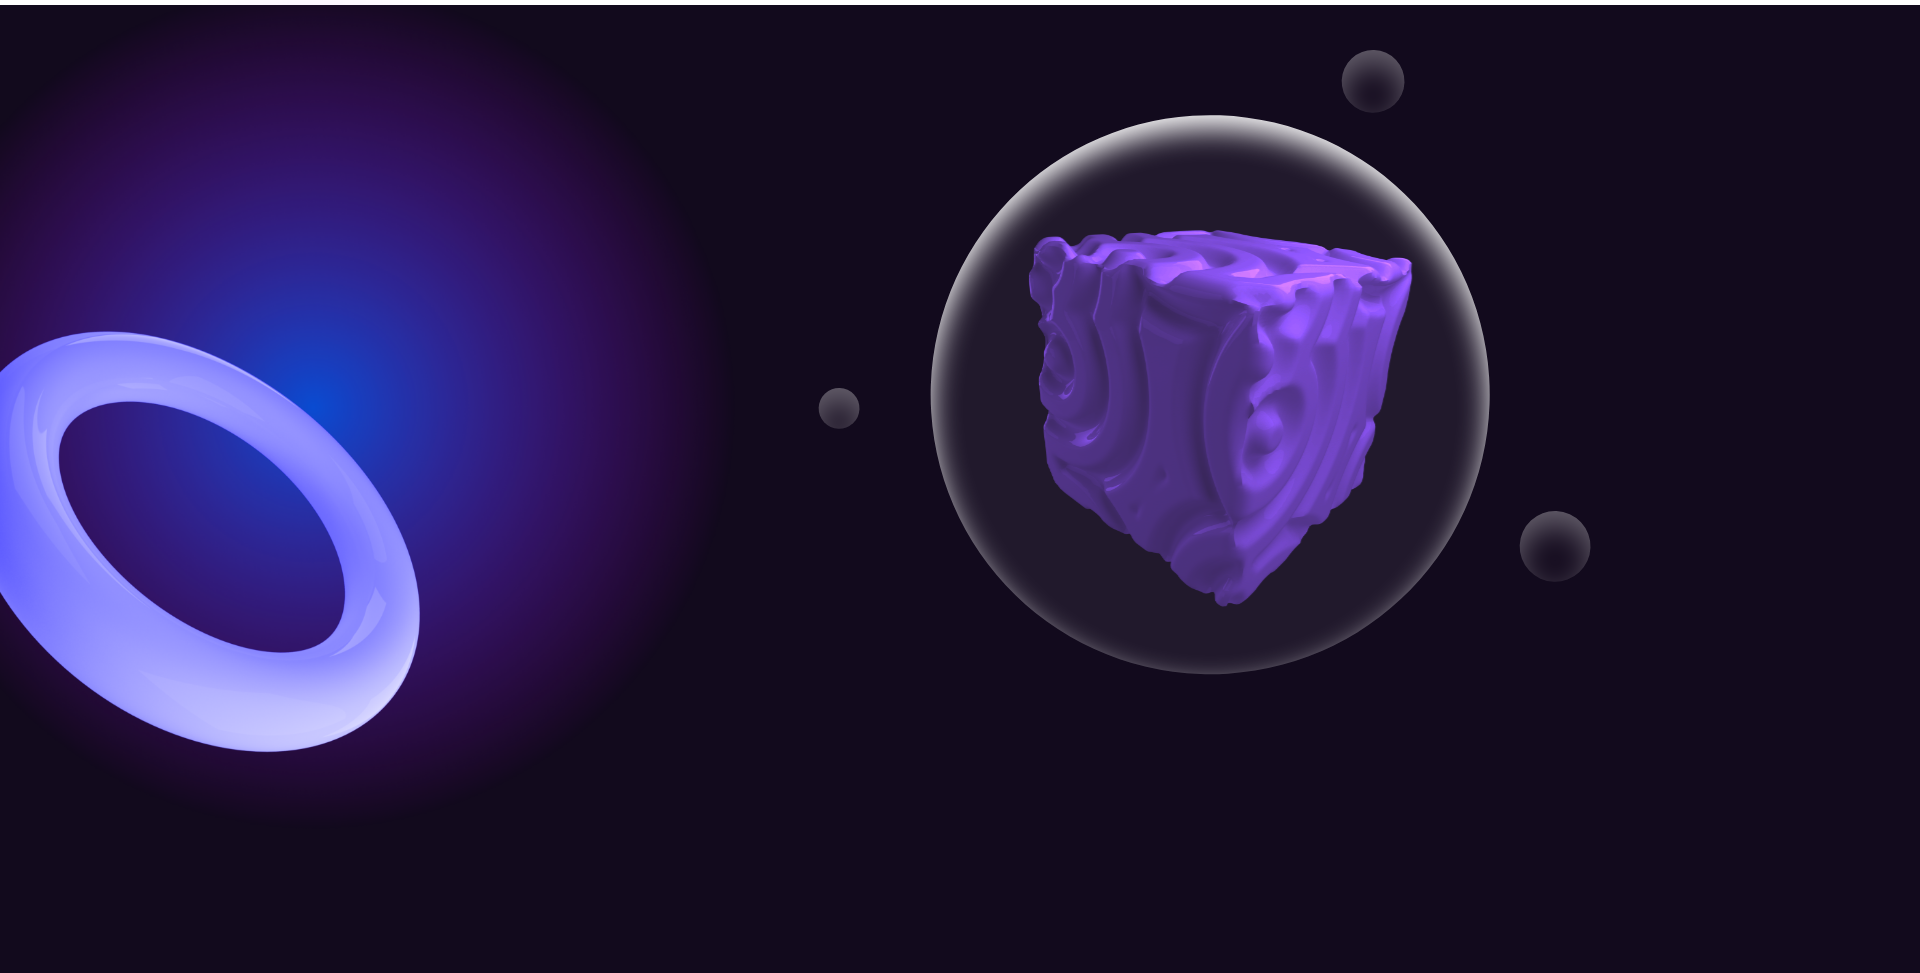
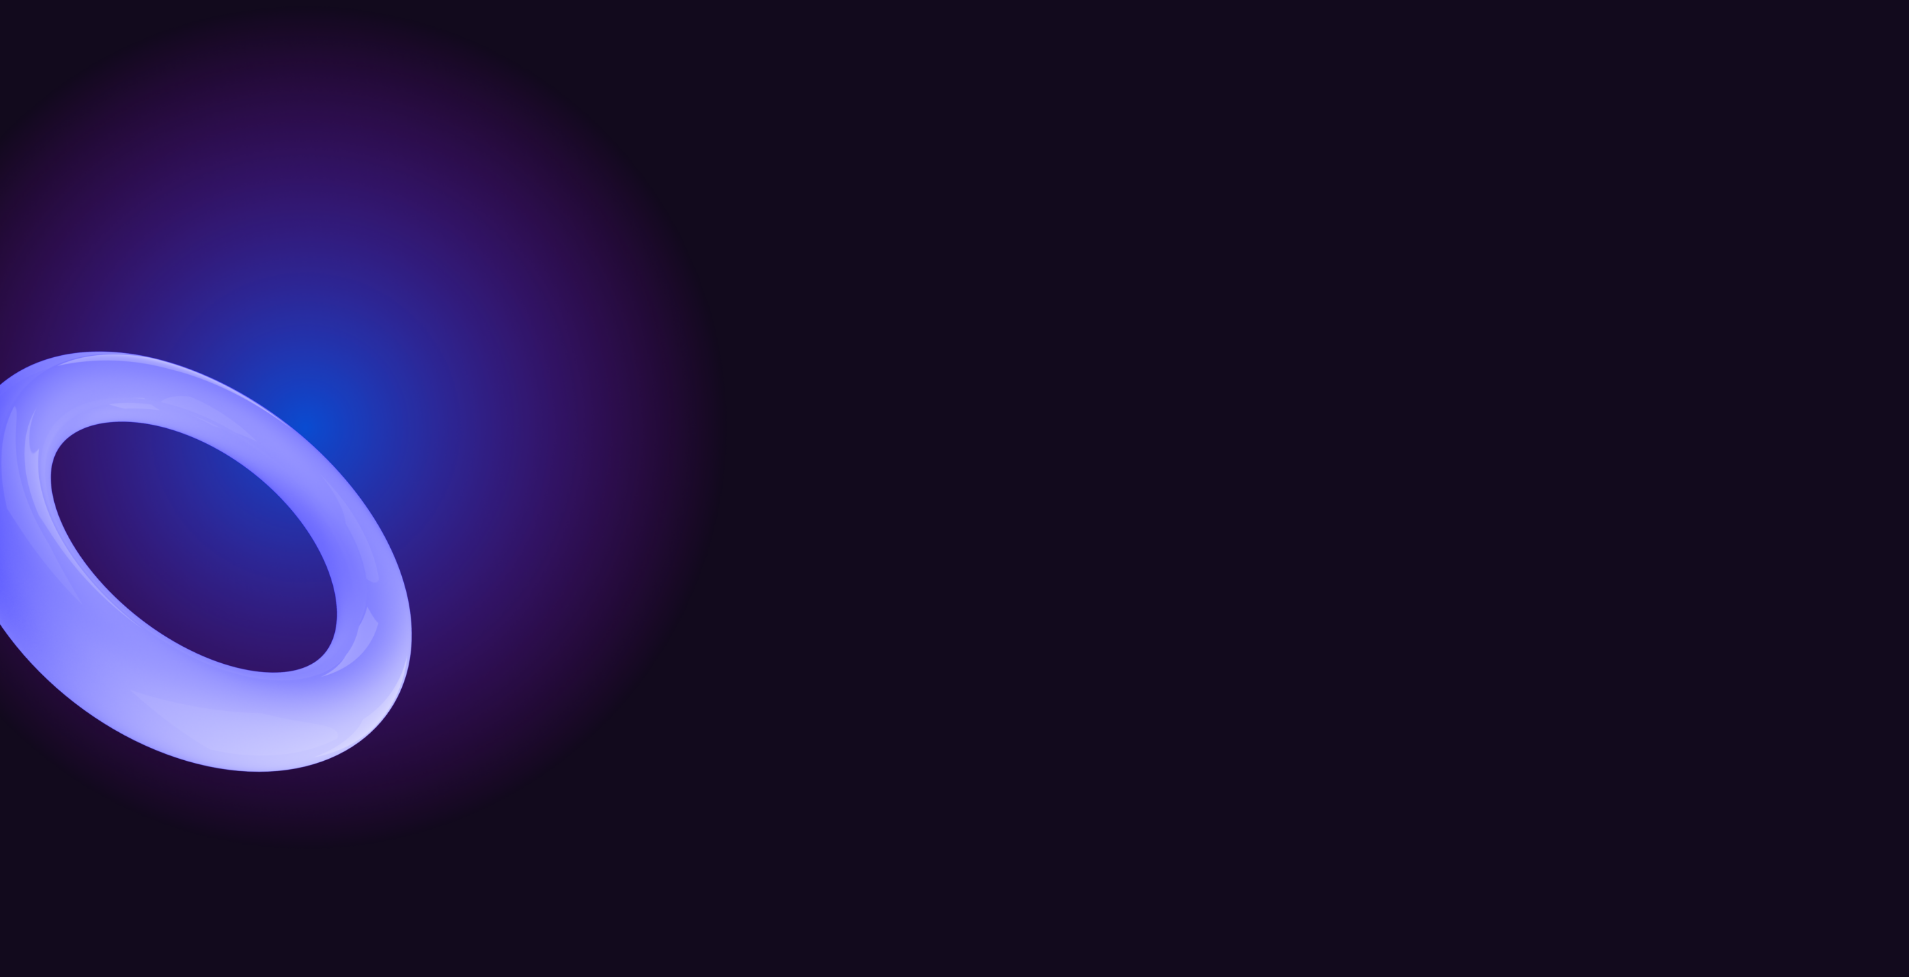
fix/ui changes

diff --git a/src/styles/pages/home/index.tsx b/src/styles/pages/home/index.tsx
@@ -2,10 +2,12 @@ import styled from 'styled-components'
 import apebackground from 'assets/images/moonversewrapper.png'
 import problembackground from 'assets/images/problemsbackground.png'
 import participatebackground from 'assets/images/participateswrapper.png'
+import pointerbackground from 'assets/images/cube.png'
 
 export const Container = styled.div`
   width: 100%;
   background: linear-gradient(180deg, #120a1d 40%, #1f0a3c 50%);
+  scroll-behavior: smooth;
 `
 export const VideoContainer = styled.div`
   position: relative;
@@ -32,6 +34,7 @@ export const Title = styled.div`
   opacity: 1;
   z-index: 2;
   color: #a884f5;
+  text-shadow: #a884f5 5px 0 15px;
 `
 export const Text = styled.div`
   text-align: left;
@@ -60,7 +63,6 @@ export const Logo = styled.div`
     border-radius: 79px;
     opacity: 0.96;
     text-align: left;
-    text-align: left;
     font-size: 15px;
     letter-spacing: 0.5px;
     color: #ffffff;
@@ -75,12 +77,13 @@ export const Logo = styled.div`
 export const Scroll = styled.div`
   position: absolute;
   width: 100%;
-  margin: 0 auto;
+  display: flex;
   justify-content: center;
+  margin: 0 auto;
   bottom: 0;
   z-index: 3;
   .scrollbar {
-    max-width: 100px;
+    width: 100%;
     margin: 0 auto;
     display: flex;
     cursor: pointer;
@@ -99,12 +102,12 @@ export const Player = styled.div`
 
 export const MoonverseInfo = styled.div`
   padding-top: 50px;
-  height: 950px;
+  height: 900px;
   background-image: url(${apebackground});
   background-size: 100%;
   background-repeat: no-repeat;
   @media screen and (max-width: 1440px) {
-    height: 702px;
+    height: 680px;
   }
   @media screen and (max-width: 1000px) {
     height: 450px;
@@ -116,6 +119,7 @@ export const Problems = styled.div`
   height: 832px;
   background-image: url(${problembackground});
   padding-right: 50px;
+  background-repeat: no-repeat;
 `
 
 export const ProblemsTitle = styled.div`
@@ -135,6 +139,7 @@ export const ParticipateContainer = styled.div`
   width: 100%;
   height: 1000px;
   background-image: url(${participatebackground});
+  background-repeat: no-repeat;
 
   .playButton {
     background: #262166 0% 0% no-repeat padding-box;
@@ -154,6 +159,12 @@ export const ParticipateContainer = styled.div`
     color: #ffffff;
     text-transform: capitalize;
     opacity: 1;
+    :hover {
+      background: #262166 0% 0% no-repeat padding-box;
+      box-shadow: inset 0px 17px 6px #00000029, 0px 3px 6px #5a5a5a29;
+      transform: scale(1.1);
+      transition: 0.2s;
+    }
   }
 `
 export const PartcipateText = styled.div`
@@ -179,11 +190,21 @@ export const TextWrapper = styled.div`
 export const Pointers = styled.div`
   display: grid;
   width: 100%;
+  background-image: url(${pointerbackground});
+  background-position-x: center;
+  background-position-y: center;
+  background-size: 795px 795px;
+  background-repeat: no-repeat;
+  @media screen and (max-width: 1450px) {
+    background-size: 655px 655px;
+  }
+  @media screen and (max-width: 1120px) {
+    background-size: 575px 575px;
+  }
 `
 export const Discover = styled.div`
   width: 100%;
   max-width: 303px;
-  height: 80px;
   background: #262166 0% 0% no-repeat padding-box;
   box-shadow: inset 0px 17px 6px #00000029, 0px 3px 6px #00000029;
   border-radius: 12px;
@@ -195,7 +216,6 @@ export const Discover = styled.div`
 export const Model = styled.div`
   width: 100%;
   max-width: 243px;
-  height: 100px;
   background: #262166 0% 0% no-repeat padding-box;
   box-shadow: inset 0px 17px 6px #00000029, 0px 3px 6px #00000029;
   border-radius: 12px;
@@ -209,7 +229,6 @@ export const Monetization = styled.div`
   width: 100%;
   max-width: 243px;
   max-width: 434px;
-  height: 110px;
   background: #262166 0% 0% no-repeat padding-box;
   box-shadow: inset 0px 17px 6px #00000029, 0px 3px 6px #00000029;
   border-radius: 12px;
@@ -257,7 +276,6 @@ export const Utilities = styled.div`
   display: grid;
   justify-content: center;
   grid-gap: 30px;
-  /* grid-template-columns: auto auto auto; */
   grid-template-columns: repeat(auto-fit, minmax(500px, 3fr));
   padding: 0px 70px 70px 70px;
   align-items: center;
@@ -265,8 +283,17 @@ export const Utilities = styled.div`
 `
 export const UtilitiesWrapper = styled.div`
   justify-content: center;
+
   :hover {
-    transform: scale(0.9);
+    transform: scale(0.95);
+    transition: 0.3s;
+    transition-timing-function: ease-out;
+  }
+  :nth-child(2) {
+    @media screen and (max-width: 1440px) {
+      grid-row: 1;
+      grid-column: 1;
+    }
   }
 `
 export const Partners = styled.div`
@@ -299,7 +326,8 @@ export const Heading = styled.div`
   color: #a884f5;
   margin-top: 20px;
   fill-opacity: 100%;
-  max-width: 1210px;
+  max-width: 1240px;
+  text-shadow: #a884f5 5px 0 15px;
 `
 export const RoadmapHeading = styled.div`
   text-align: center;
@@ -312,7 +340,7 @@ export const RoadmapHeading = styled.div`
   color: #a884f5;
   margin-top: 20px;
   margin-bottom: 0px;
-  fill-opacity: 100%;
+  text-shadow: #a884f5 5px 0 15px;
 `
 export const Roadmap = styled.div`
   margin-top: 20px;
@@ -325,7 +353,7 @@ export const RoadmapContent = styled.div``
 export const FooterContainer = styled.div`
   margin: 50px;
   padding: 32px;
-  background: linear-gradient(145deg, #0a0e60 27%, #240e44 50%);
+  background: linear-gradient(145deg, #0a0c34 27%, #240e44 50%);
   box-shadow: 0px 14px 24px rgb(0 0 0 / 65%);
 
   border-radius: 50px;

diff --git a/src/components/home/videoContainer.tsx b/src/components/home/videoContainer.tsx
@@ -14,20 +14,12 @@ const VideoWrapper = () => {
         <Button className="marketplace">Marketplace</Button>
       </Logo>
       <Player>
-        <ReactPlayer
-          playing={true}
-          loop={true}
-          style={{
-            height: '10px !important',
-          }}
-          className="player"
-          url={homevideo}
-          autoPlay={true}
-          controls={false}
-        />
+        <ReactPlayer playing={true} loop={true} className="player" url={homevideo} autoPlay={true} />
       </Player>
       <Scroll>
-        <img src={scroll} className="scrollbar" />
+        <a href="#participate_container">
+          <img src={scroll} className="scrollbar" />
+        </a>
       </Scroll>
     </VideoContainer>
   )

diff --git a/src/components/home/InfoContainer.tsx b/src/components/home/InfoContainer.tsx
@@ -2,7 +2,7 @@ import { MoonverseInfo, Title, Text, TextContainer } from 'styles/pages/home'
 
 const MoonverseInfoWrapper = () => {
   return (
-    <MoonverseInfo>
+    <MoonverseInfo id="moonverse">
       <TextContainer>
         <Title>What is Moonverse</Title>
         <Text>Collectibles Social Metaverse that provides all NFT holders utility in a 3D world</Text>

diff --git a/src/pages/home/index.tsx b/src/pages/home/index.tsx
@@ -19,7 +19,7 @@ const Home = () => {
       <ParticipateWrapper />
       <TokenUtilitiesWrapper />
       <PartnersAndInvestors>
-        <img src={partnerimagecontainer} className="scrollbar" />
+        <img src={partnerimagecontainer} />
         <PartnersContent>
           <PartnerWrapper />
           <InvestorWrapper />

diff --git a/src/components/home/participateContainer.tsx b/src/components/home/participateContainer.tsx
@@ -3,7 +3,7 @@ import Button from '@mui/material/Button'
 
 const ParticipateWrapper = () => {
   return (
-    <ParticipateContainer>
+    <ParticipateContainer id="participate_container">
       <TextWrapper>
         <Title>Participate to Earn</Title>
         <PartcipateText>
